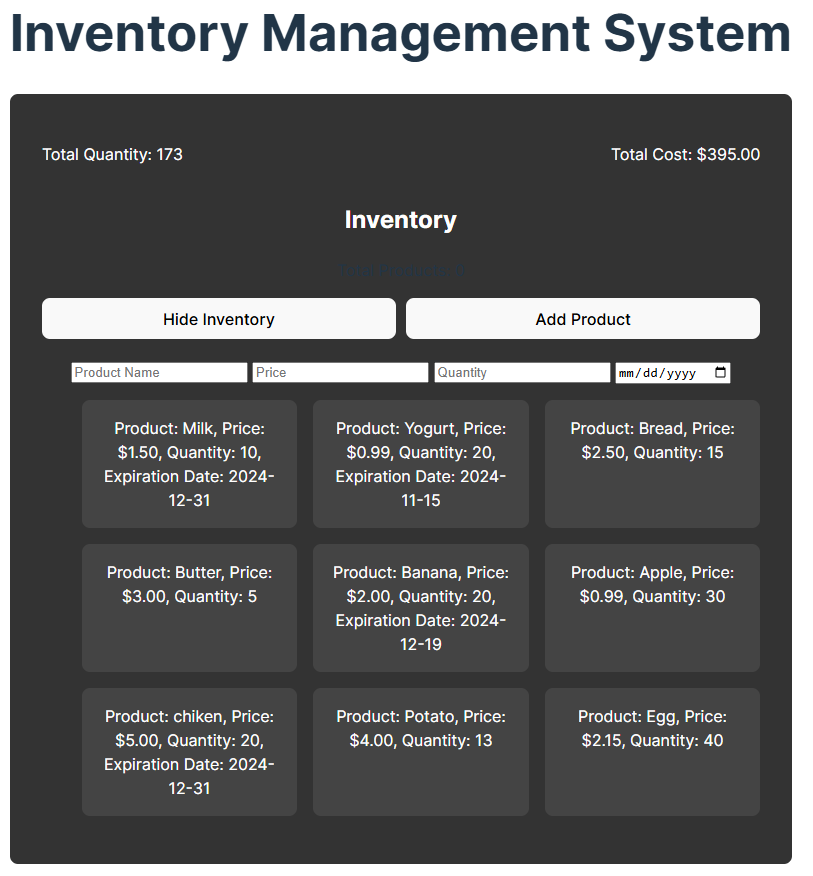
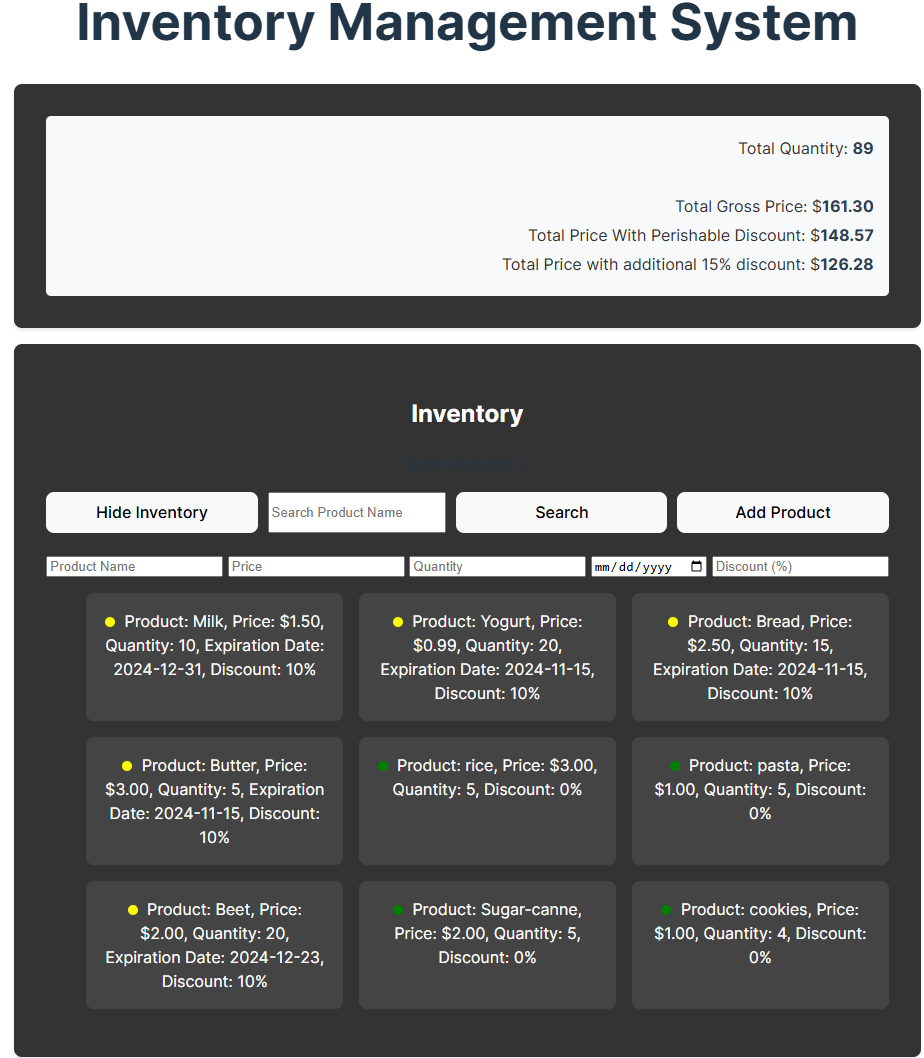
main

diff --git a/inventory-management-system/src/index.js b/inventory-management-system/src/index.js
@@ -4,38 +4,54 @@ import ProductProperties from './classes/Product.js';
 
 const store = new Store();
 
-// Sample inventory data
-const sampleInventory = [
-    new PerishableProductProperties('Milk', 1.50, 10, '2024-12-31'),
-    new PerishableProductProperties('Yogurt', 0.99, 20, '2024-11-15'),
-    new ProductProperties('Bread', 2.50, 15),
-    new ProductProperties('Butter', 3.00, 5)
-];
-
 // Load inventory from local storage
-window.addEventListener('load', () => {
-    const savedInventory = localStorage.getItem('inventory');
+window.addEventListener('load', async () => {
     const initialized = localStorage.getItem('initialized');
 
     if (!initialized) {
-        // Add sample inventory to local storage
-        sampleInventory.forEach(product => store.addProduct(product));
-        saveInventory();
-        localStorage.setItem('initialized', 'true');
-    } else if (savedInventory) {
-        const data = JSON.parse(savedInventory);
-        data.forEach(item => {
-            let product;
-            if (item.expirationDate) {
-                product = new PerishableProductProperties(item.name, item.price, item.quantity, item.expirationDate);
-            } else {
-                product = new ProductProperties(item.name, item.price, item.quantity);
+        // Clear local storage to force reload of sample data
+        localStorage.clear();
+
+        // Fetch sample inventory from sampleData.json
+        try {
+            const response = await fetch('inventory-management-system/data/sampleData.json');
+            if (!response.ok) {
+                throw new Error('Network response was not ok');
             }
-            store.addProduct(product);
-        });
+            const sampleInventory = await response.json();
+            console.log('Sample Inventory Loaded:', sampleInventory);
+
+            // Add sample inventory to local storage
+            sampleInventory.forEach(item => {
+                let product;
+                if (item.expirationDate) {
+                    product = new PerishableProductProperties(item.name, item.price, item.quantity, item.expirationDate, item.discount);
+                } else {
+                    product = new ProductProperties(item.name, item.price, item.quantity, item.discount);
+                }
+                store.addProduct(product);
+            });
+            saveInventory();
+            localStorage.setItem('initialized', 'true');
+        } catch (error) {
+            console.error('Failed to fetch sample inventory:', error);
+        }
+    } else {
+        const savedInventory = localStorage.getItem('inventory');
+        if (savedInventory) {
+            const data = JSON.parse(savedInventory);
+            data.forEach(item => {
+                let product;
+                if (item.expirationDate) {
+                    product = new PerishableProductProperties(item.name, item.price, item.quantity, item.expirationDate, item.discount);
+                } else {
+                    product = new ProductProperties(item.name, item.price, item.quantity, item.discount);
+                }
+                store.addProduct(product);
+            });
+        }
     }
-    updateInventoryList();
-    updateSummary();
+    // Do not call updateSummary here to keep values zero initially
 });
 
 document.getElementById('product-form').addEventListener('submit', (event) => {
@@ -44,12 +60,13 @@ document.getElementById('product-form').addEventListener('submit', (event) => {
     const price = parseFloat(document.getElementById('price').value);
     const quantity = parseInt(document.getElementById('quantity').value);
     const expirationDate = document.getElementById('expirationDate').value;
+    const discount = parseFloat(document.getElementById('discount').value) / 100;
 
     let product;
     if (expirationDate) {
-        product = new PerishableProductProperties(name, price, quantity, expirationDate);
+        product = new PerishableProductProperties(name, price, quantity, expirationDate, discount);
     } else {
-        product = new ProductProperties(name, price, quantity);
+        product = new ProductProperties(name, price, quantity, discount);
     }
 
     store.addProduct(product);
@@ -62,16 +79,26 @@ document.getElementById('product-form').addEventListener('submit', (event) => {
     updateSummary();
 });
 
-document.getElementById('list-inventory').addEventListener('click', () => {
+document.getElementById('list-inventory').addEventListener('click', async () => {
     const inventoryList = document.getElementById('inventory-list');
     const button = document.getElementById('list-inventory');
+    const loadingIndicator = document.createElement('div');
+    loadingIndicator.id = 'loading-indicator';
+    loadingIndicator.textContent = 'Loading...';
+    document.getElementById('app').appendChild(loadingIndicator);
+
     if (button.textContent === 'View Inventory') {
-        displayInventoryGrid();
+        console.log('Displaying Inventory Grid');
+        await displayInventoryGrid();
         button.textContent = 'Hide Inventory';
+        updateSummary(); // Update summary when inventory is displayed
     } else {
         inventoryList.innerHTML = '';
         button.textContent = 'View Inventory';
+        resetSummary(); // Reset summary when inventory is hidden
     }
+
+    loadingIndicator.remove();
 });
 
 document.getElementById('search-button').addEventListener('click', () => {
@@ -119,7 +146,7 @@ function showConfirmation() {
     setTimeout(() => confirmation.remove(), 2000);
 }
 
-function displayInventoryGrid() {
+async function displayInventoryGrid() {
     const inventoryList = document.getElementById('inventory-list');
     inventoryList.innerHTML = '';
     store.inventory.forEach((product, index) => {
@@ -127,7 +154,14 @@ function displayInventoryGrid() {
         div.className = 'inventory-item';
         
         const span = document.createElement('span');
-        span.textContent = product.toString();
+        span.innerHTML = `
+            <span class="dot ${product.expirationDate ? 'yellow-dot' : 'green-dot'}"></span>
+            Product: ${product.name}, 
+            Price: $${product.price.toFixed(2)}, 
+            Quantity: ${product.quantity}, 
+            ${product.expirationDate ? `Expiration Date: ${product.expirationDate}, ` : ''}
+            Discount: ${(product.discount * 100).toFixed(0)}%
+        `;
         
         const button = document.createElement('button');
         button.className = 'delete-button';
@@ -151,8 +185,19 @@ function saveInventory() {
 
 function updateSummary() {
     const totalQuantity = store.inventory.reduce((sum, product) => sum + product.quantity, 0);
-    const totalCost = store.inventory.reduce((sum, product) => sum + product.getTotalValue(), 0).toFixed(2);
+    const totalGrossPrice = store.inventory.reduce((sum, product) => sum + (product.price * product.quantity), 0).toFixed(2);
+    const totalPriceWithPerishableDiscount = store.inventory.reduce((sum, product) => sum + product.getTotalValue(), 0).toFixed(2);
+    const totalNetPriceWithDiscount = (totalPriceWithPerishableDiscount * 0.85).toFixed(2);
 
     document.getElementById('total-quantity').textContent = totalQuantity;
-    document.getElementById('total-cost').textContent = totalCost;
+    document.getElementById('price-Without-Discount').textContent = totalGrossPrice;
+    document.getElementById('Total-Price-With-Perishable-Discount').textContent = totalPriceWithPerishableDiscount;
+    document.getElementById('total-net-price-with-discount').textContent = totalNetPriceWithDiscount;
+}
+
+function resetSummary() {
+    document.getElementById('total-quantity').textContent = '0';
+    document.getElementById('price-Without-Discount').textContent = '0.00';
+    document.getElementById('Total-Price-With-Perishable-Discount').textContent = '0.00';
+    document.getElementById('total-net-price-with-discount').textContent = '0.00';
 }

diff --git a/index.html b/index.html
@@ -12,8 +12,13 @@
         <div class="card">
             <div class="inventory-summary">
                 <p>Total Quantity: <span id="total-quantity">0</span></p>
-                <p>Total Cost: $<span id="total-cost">0.00</span></p>
+                <br>
+                <p>Total Gross Price: $<span id="price-Without-Discount">0.00</span></p>
+                <p>Total Price With Perishable Discount: $<span id="Total-Price-With-Perishable-Discount">0.00</span></p>
+                <p>Total Price with additional 15% discount: $<span id="total-net-price-with-discount">0.00</span></p>
             </div>
+        </div>
+        <div class="card">
             <h2 style="color: white;">Inventory</h2>
             <p>Total Products: <span id="total-products">0</span></p>
             <div class="button-group">
@@ -27,6 +32,7 @@
                 <input type="number" id="price" placeholder="Price" step="0.01" required>
                 <input type="number" id="quantity" placeholder="Quantity" required>
                 <input type="date" id="expirationDate" placeholder="Expiration Date">
+                <input type="number" id="discount" placeholder="Discount (%)" step="0.01">
             </form>
             <ul id="inventory-list"></ul>
         </div>

diff --git a/inventory-management-system/src/classes/Product.js b/inventory-management-system/src/classes/Product.js
@@ -1,5 +1,5 @@
 class ProductProperties {
-    constructor(name, price, quantity) {
+    constructor(name, price, quantity, discount = 0) {
         if (!name || typeof name !== 'string') {
             throw new Error('Invalid name');
         }
@@ -10,16 +10,17 @@ class ProductProperties {
             throw new Error('Invalid quantity');
         }
         this.name = name;
-        this.price = parseFloat(price).toFixed(2); // Ensure price is a decimal with two places
+        this.price = parseFloat(price); // Ensure price is a number
         this.quantity = quantity;
+        this.discount = discount;
     }
 
     getTotalValue() {
-        return this.price * this.quantity;
+        return this.price * this.quantity * (1 - this.discount);
     }
 
     toString() {
-        return `Product: ${this.name}, Price: $${this.price}, Quantity: ${this.quantity}`;
+        return `Product: ${this.name}, Price: $${this.price.toFixed(2)}, Quantity: ${this.quantity}, Discount: ${isNaN(this.discount) ? 'N/A' : (this.discount * 100).toFixed(0)}%`;
     }
 }
 

diff --git a/inventory-management-system/src/classes/PerishableProduct.js b/inventory-management-system/src/classes/PerishableProduct.js
@@ -1,17 +1,14 @@
-import ProductProperties from './Product.js';
+import Product from './Product.js';
 
-class PerishableProductProperties extends ProductProperties {
-    constructor(name, price, quantity, expirationDate) {
-        super(name, price, quantity);
-        if (!expirationDate || isNaN(Date.parse(expirationDate))) {
-            throw new Error('Invalid expiration date');
-        }
+class PerishableProduct extends Product {
+    constructor(name, price, quantity, expirationDate, discount = 0) {
+        super(name, price, quantity, discount);
         this.expirationDate = expirationDate;
     }
 
     toString() {
-        return `${super.toString()}, Expiration Date: ${this.expirationDate}`;
+        return `Product: ${this.name}, Price: $${this.price.toFixed(2)}, Quantity: ${this.quantity}, Expiration Date: ${this.expirationDate}, Discount: ${isNaN(this.discount) ? 'N/A' : (this.discount * 100).toFixed(0)}%`;
     }
 }
 
-export default PerishableProductProperties;
+export default PerishableProduct;

diff --git a/inventory-management-system/styles/styles.css b/inventory-management-system/styles/styles.css
@@ -60,6 +60,7 @@
     margin: 1em 0;
     background-color: #333;
     border-radius: 8px;
+    box-shadow: 0 2px 4px rgba(0, 0, 0, 0.1);
   }
   
   .read-the-docs {
@@ -149,8 +150,35 @@
 }
 
 .inventory-summary {
-    display: flex;
-    justify-content: space-between;
-    margin-bottom: 1em;
-    color: white;
+    text-align: right;
+    padding: 15px;
+    background-color: #f8f9fa;
+    border-radius: 5px;
+    color: #333;
+}
+
+.inventory-summary p {
+    margin: 5px 0;
+    font-size: 16px;
+}
+
+.inventory-summary span {
+    font-weight: bold;
+    color: #2c3e50;
+}
+
+.dot {
+    height: 10px;
+    width: 10px;
+    border-radius: 50%;
+    display: inline-block;
+    margin-right: 5px;
+}
+
+.yellow-dot {
+    background-color: yellow;
+}
+
+.green-dot {
+    background-color: green;
 }
